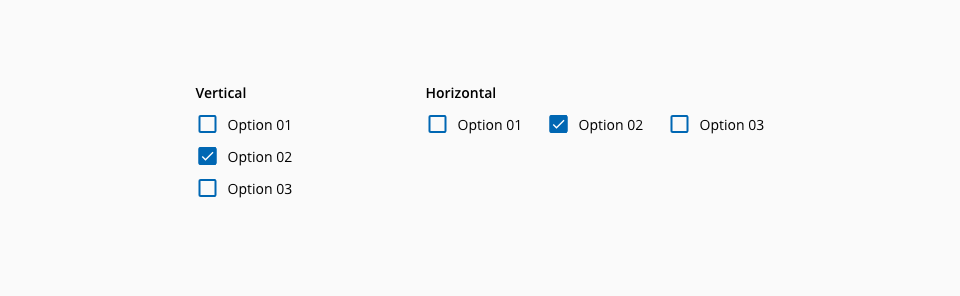
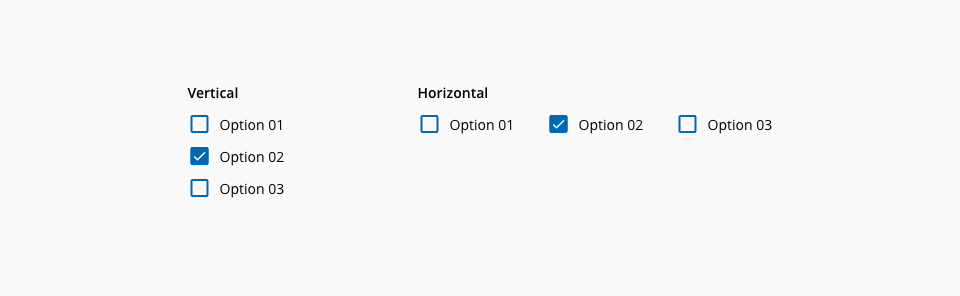
Update stacking section

diff --git a/guidelines/components/checkbox/README.md b/guidelines/components/checkbox/README.md
@@ -42,10 +42,12 @@ Checkbox options may be either vertically or horizontally stacked.
 
 _Checkbox group stacking types_
 
-| Type              | Usage                                                                                                                               |
-| :---------------- | :-----------------------------------------------------------------------------------------------------------------------------------|
-| **Vertical**      | Checkboxes are independent of a category. The vertical spacing between stacked checkboxes should be 8px.                            |
-| **Horizontal**    | Cheboxes are related or belong to the same category. The horizontal spacing between horizontally stacked checkboxes should be 24px. |
+| Type              | Usage                                                                                                                                      |
+| :---------------- | :----------------------------------------------------------------------------------------------------------------------------------------- |
+| **Vertical**      | Related checkboxes that belong to the same category. The horizontal spacing between horizontally stacked checkboxes should be 8px.         |
+| **Horizontal**    | Checkboxes are independent of a category*. The vertical spacing between stacked checkboxes should be 32px. Don't stack more than 3 options |
+
+*Unless there is a specific use case that require horizontal stacking, use always the vertical type. Horizontal stacking deteriorate legibility, add complexity when handling responsive behaviors and the labeling position can be mistaken.
 
 ## Error handling
 
